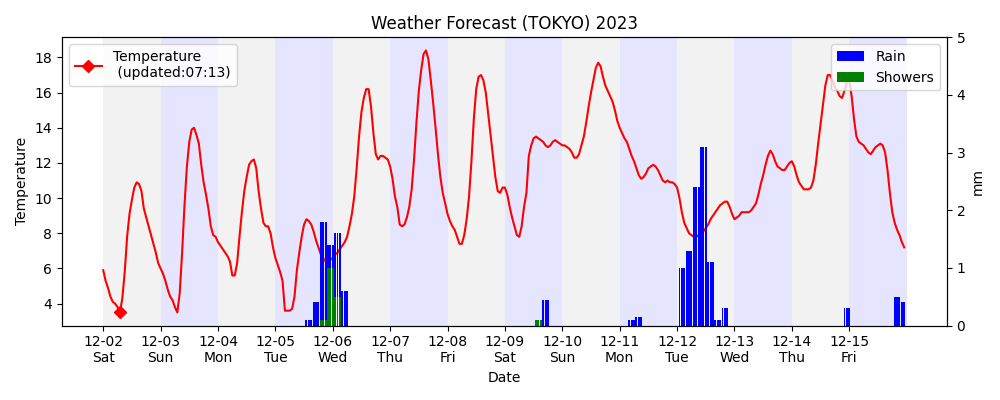
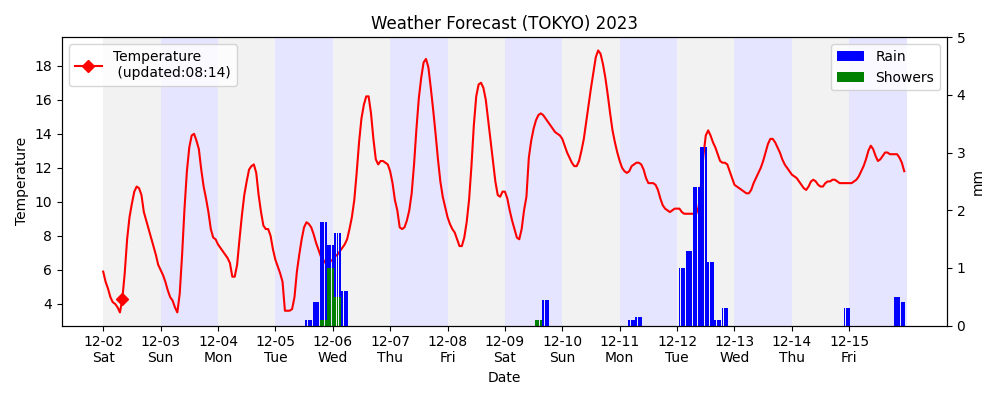
deploy: a5a5009eb4dc1e78f7cc52a8b0fa68a0e4fcc4ef

diff --git a/docs/src/dashboard/marketinfo.html b/docs/src/dashboard/marketinfo.html
@@ -33,7 +33,7 @@
             <td>148.161</td>
             <td>146.66</td>
             <td>148.344</td>
-            <td>2023-12-02 07:13:21</td>
+            <td>2023-12-02 08:14:39</td>
         </tr>
     </table>
 
